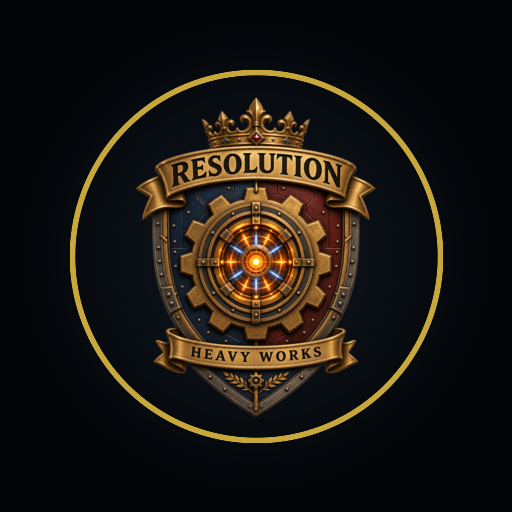
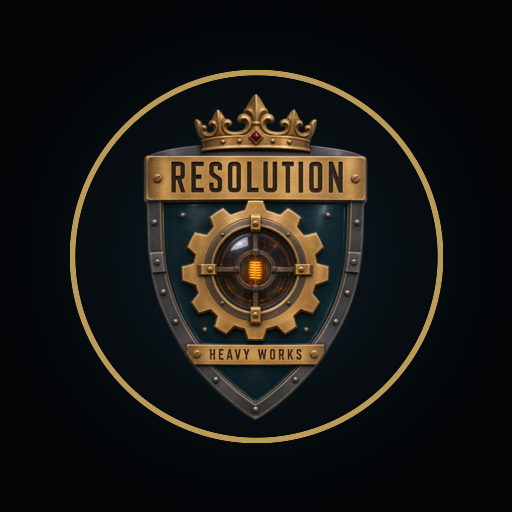
Refine Resolution crest materials and engraved wordmark

diff --git a/index.html b/index.html
@@ -14,7 +14,7 @@
   <link rel="icon" type="image/png" href="./assets/favicon.png" />
   <link rel="apple-touch-icon" href="./assets/apple-touch-icon.png" />
   
-  <link rel="stylesheet" href="./css/rhw-app.css?v=sha256-1d2965afd5bc857954f9">
+  <link rel="stylesheet" href="./css/rhw-app.css?v=sha256-21feb2a8a83c272996bf">
 </head>
 <body>
 
@@ -165,8 +165,8 @@
 
   <footer><hr class="hrc-dark">CONNECTION <span id="footerConnection">SYNCING</span> /// GLORY TO THE QUEEN<br><div class="footer-clock" id="rpFooterTime"></div></footer>
 
-<script src="./js/build-info.js?v=sha256-1d2965afd5bc857954f9"></script>
-<script src="./js/00-bootstrap.js?v=sha256-1d2965afd5bc857954f9"></script>
-<script src="./js/rhw-dashboard.js?v=sha256-1d2965afd5bc857954f9"></script>
+<script src="./js/build-info.js?v=sha256-21feb2a8a83c272996bf"></script>
+<script src="./js/00-bootstrap.js?v=sha256-21feb2a8a83c272996bf"></script>
+<script src="./js/rhw-dashboard.js?v=sha256-21feb2a8a83c272996bf"></script>
 </body>
 </html>

diff --git a/sw.js b/sw.js
@@ -1,4 +1,4 @@
-/* GENERATED release revision: sha256-1d2965afd5bc857954f9 */
+/* GENERATED release revision: sha256-21feb2a8a83c272996bf */
 /* RHW V4.0.2 · unified workspace service worker
    App assets are available offline. Live telemetry remains network-only. */
 importScripts('./js/build-info.js', './js/app-shell.js');

diff --git a/js/build-info.js b/js/build-info.js
@@ -1,6 +1,6 @@
 /* GENERATED content revision; do not edit. */
 globalThis.RHW_BUILD = Object.freeze({
-  revision: 'sha256-1d2965afd5bc857954f9',
+  revision: 'sha256-21feb2a8a83c272996bf',
   repository: 'PhyteHQ/RHW',
   branch: 'main'
 });
